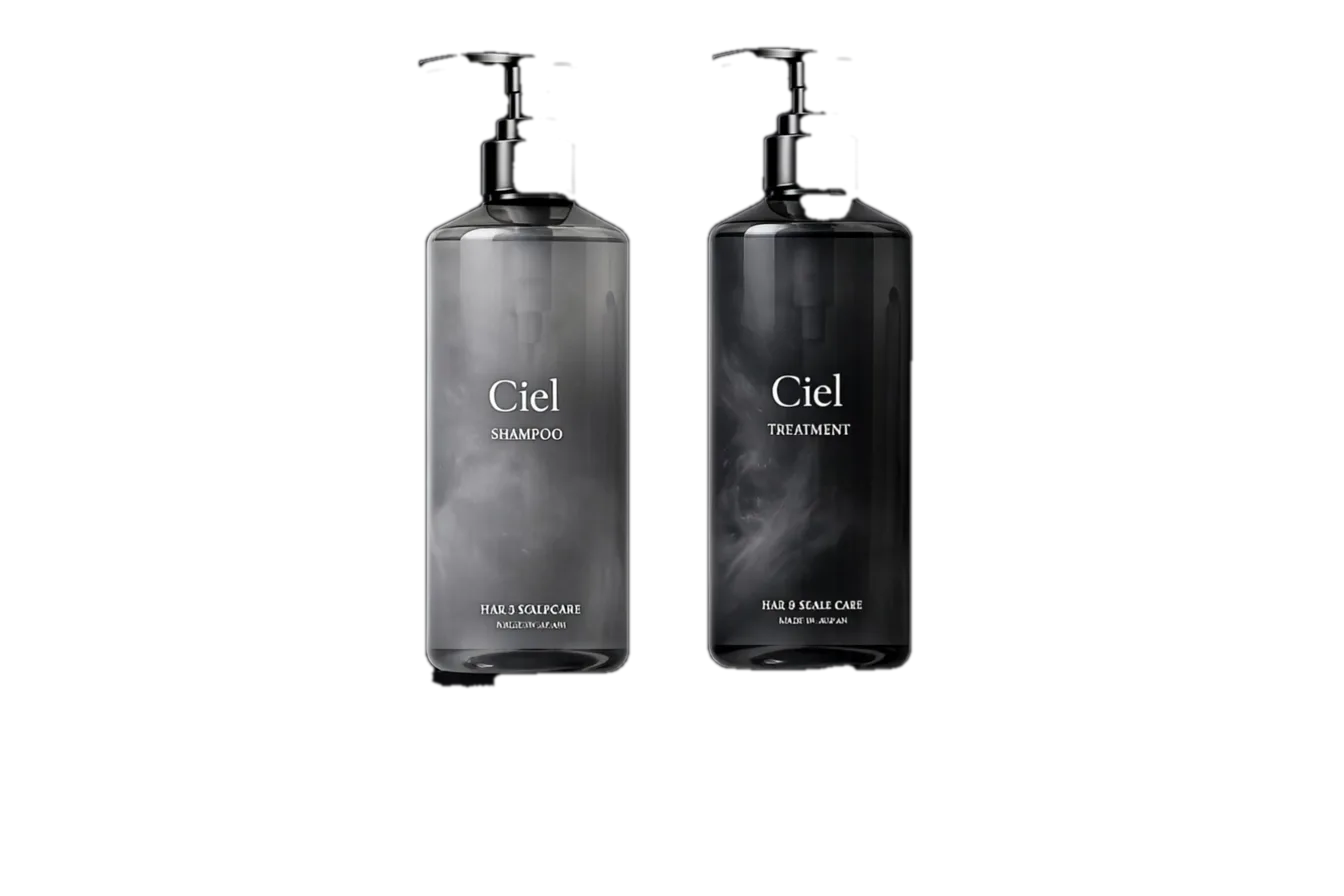
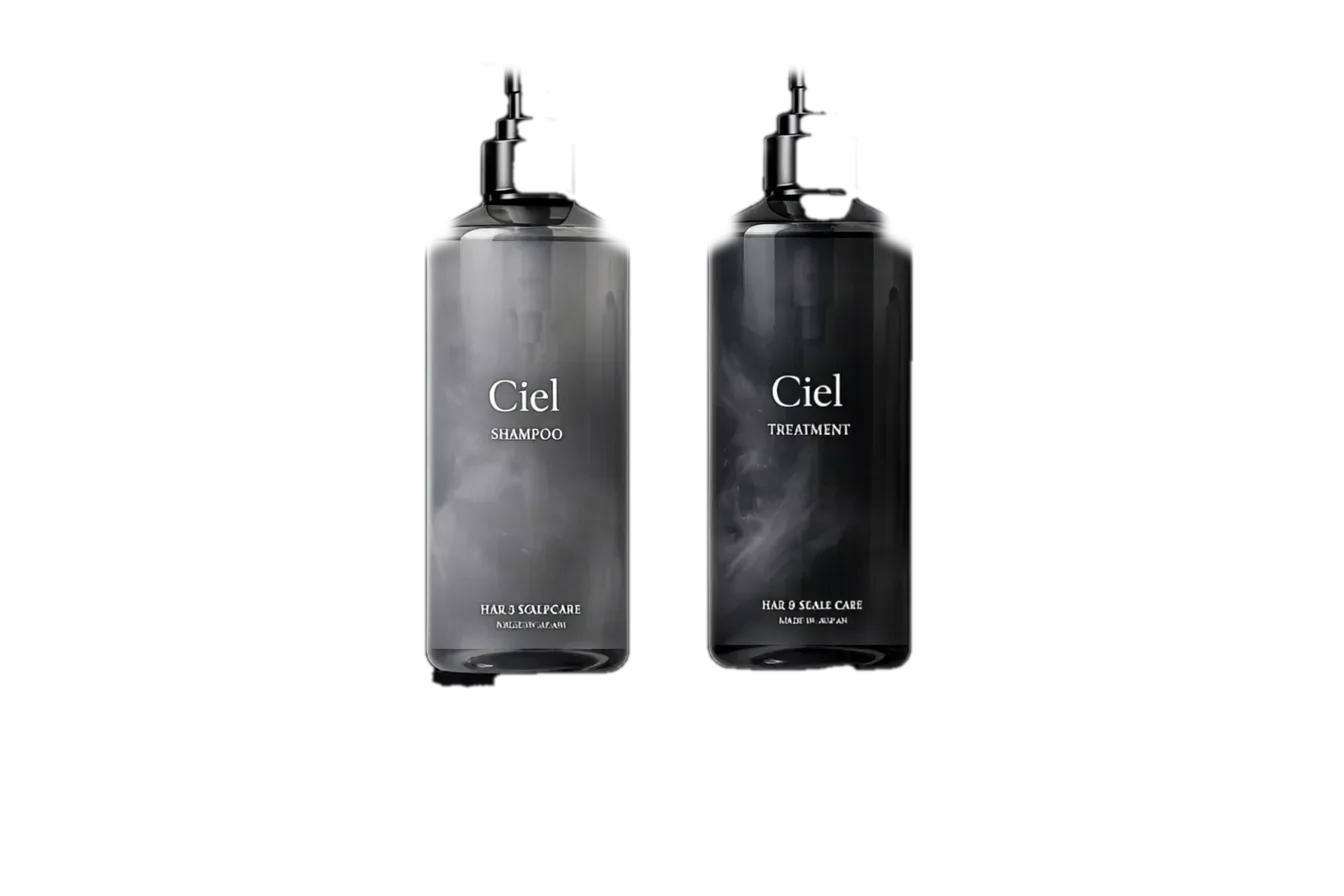
fix(final): settled finale dissolves into pristine product master — zero echo/halo caps. v7

diff --git a/signature.html b/signature.html
@@ -270,7 +270,7 @@ const bw=$('bw'),cgb=$('cgb'),cgx=cgb.getContext('2d'),trtb=$('trtb'),
 
 /* preload frames: 1-121 closed→open→pour→gel · 122-182 morph→treatment ·
    183-303 cream ribbon→bergamot & white-tea assembly · 304-424 botanicals→duo bottles */
-const NF=424,FV='?v=6',frames=[];
+const NF=424,FV='?v=7',frames=[];
 for(let i=1;i<=NF;i++){const im=new Image();
   im.src='seq_full/f_'+String(i).padStart(3,'0')+'.webp'+FV;frames[i-1]=im;}
 /* warm-up: pre-decode every frame once at idle so scrubbing never hits a decode stall.
